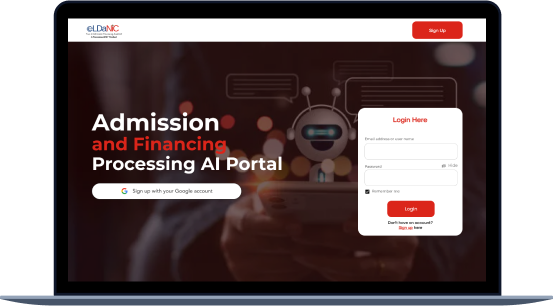
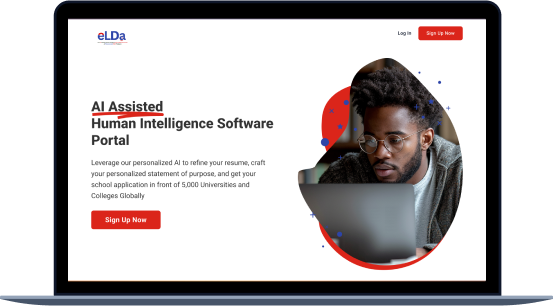
commit

diff --git a/src/pages/Home.jsx b/src/pages/Home.jsx
@@ -1,13 +1,13 @@
-import React from "react";
 import TextImage from "../components/TextImage";
 import Macbook from "../assets/Macbook.png";
-import aiLaptop from "../assets/ai-laptop.png";
+import aiLaptop from "../assets/laptop.png";
 import people from "../assets/people.png";
 import Frame1 from "../assets/Frame 473.png";
 import Frame2 from "../assets/Frame 475.png";
 import Button from "../components/small-components/Button";
 import Hero from "../components/Hero";
 import Partners from "../components/Partners";
+import globe from "../assets/globe.png";
 
 const Home = () => {
   return (
@@ -15,21 +15,23 @@ const Home = () => {
       <Hero />
       <Partners />
       <TextImage
-        picture={aiLaptop}
+        picture={Macbook}
         header={"PRODUCT"}
-        title={"AI Assisted Human Intelligence Software Portal"}
+        title={"AI Assisted Human Intelligence School Application Portal"}
         text={
-          "With our AI Admission and Financing Assistant, we match African Students to highly rated private universities to study commercially relevant courses across the African Continent"
+          "Leverage our personalized AI to refine your resume, craft your personalized statement of purpose, and get your school application in front of 5,000 Universities and Colleges Globally"
         }
+        showButton={true}
       />
       <TextImage
-        picture={Macbook}
+        picture={aiLaptop}
         header={"PRODUCT"}
         title={"Admission and Financing Processing AI"}
         text={
           "With our AI Admission and Financing Assistant, we match African Students to highly rated private universities to study commercially relevant courses across the African Continent"
         }
         classdyn={"flex-row-reverse"}
+        showButton={true}
       />
       <TextImage
         picture={people}
@@ -38,6 +40,7 @@ const Home = () => {
         text={
           "Through our Global Education Community, we are raising the next generation of economic super-stars that will drive the economic prosperity across the developed and developing economies."
         }
+        showButton={true}
       />
       <TextImage
         picture={Frame1}
@@ -45,23 +48,34 @@ const Home = () => {
       />
       <TextImage
         picture={Frame2}
-        title={"Global Education Loan Calculator"}
+        title={
+          <span className="flex items-start justify-start">
+            Gl
+            <span className="flex items-start justify-end">
+              <img
+                src={globe}
+                alt="globe"
+                className="object-contain"
+              />
+            </span>
+            bal Education Loan Calculator
+          </span>
+        }
         classdyn={"flex-row-reverse"}
       />
       <div className="men">
         <div className="background-image"></div>
         <div className="content flex flex-col gap-8 items-start p-20 w-[45%]">
-          <h2 className="text-4xl font-bold">
+          <h2 className="text-4xl font-bold leading-normal">
             We are BIG on Mentoring and Academic Excellence
           </h2>
-          <p className="text-xl">
+          <p className="text-xl leading-normal">
             We foster personal and professional learning and development to
             enable our community access to great opportunities post-graduation.
           </p>
           <Button btnText={"Join Community"} />
         </div>
       </div>
-      {/* <Footer /> */}
     </div>
   );
 };

diff --git a/src/components/Hero.jsx b/src/components/Hero.jsx
@@ -1,11 +1,66 @@
 import React from "react";
-import Navbar from "./Navbar";
+import Line from "../assets/line.png";
+import Girl from "../assets/girl.png";
+import bulb from "../assets/bulb.png";
+import family from "../assets/family.png";
+import goals from "../assets/goals.png";
 
 const Hero = () => {
   return (
-    <div>
-      {/* <Navbar /> */}
-      Hero
+    <div className="p-20 mb-24 flex gap-24 justify-between items-center">
+      <div className="w-2/5 flex flex-col gap-10">
+        <h2 className="font-semibold text-4xl">
+          <span className="text-[#db251A]">Welcome to </span>
+          <span className="relative">
+            <span className="text-[#1E4580]">Proconnect</span>
+            <span className="text-[#db251A]">Pay</span>
+            <img src={Line} alt="" className="absolute right-0" />
+          </span>
+        </h2>
+        <h1 className="font-bold text-[56px] leading-tight">
+          Africa's First EduFintechCo.
+        </h1>
+        <p className="text-[#646464] font-normal leading-normal text-xl">
+          We provide seamless long-term Education Financing to DEMOCRATIZE
+          access to Global and Local Educational Opportunities for
+          high-potential African Students/Candidates
+        </p>
+        <div className="flex gap-4">
+          <button className="w-1/2 rounded-lg h-14 hover:bg-transparent hover:text-[#db251A] border-2 hover:border-red-500 font-medium flex items-center justify-center bg-[#DB251A] text-white py-2 px-4 cursor-pointer">
+            Get Started
+          </button>
+          <button className="w-1/2 flex border-2 h-14 justify-center font-medium text-[#db251A] border-red-500 items-center rounded-lg px-4 py-2 cursor-pointer hover:bg-[#db251A] hover:text-white">
+            Contact Sales
+          </button>
+        </div>
+      </div>
+
+      <div className="flex flex-col gap-16">
+        <div className="flex gap-18">
+          <img
+            src={Girl}
+            alt=""
+            className="flex relative top-20 left-10 object-contain"
+          />
+          <img
+            src={bulb}
+            alt=""
+            className="flex object-contain relative top-0 right-[-100px]"
+          />
+        </div>
+        <div className="flex gap-18">
+          <img
+            src={family}
+            alt=""
+            className="flex object-contain relative top-20 left-[-80px]"
+          />
+          <img
+            src={goals}
+            alt=""
+            className="flex object-contain relative top-0 right-6"
+          />
+        </div>
+      </div>
     </div>
   );
 };

diff --git a/src/components/Partners.jsx b/src/components/Partners.jsx
@@ -1,9 +1,48 @@
 import React from "react";
+import Benson from "../assets/benson.png";
+import AmericanUni from "../assets/american universityunis.png";
+import clarkLogo from "../assets/clark-logo.png";
+import covenantLogo from "../assets/covenant-logo.png";
+import icanLogo from "../assets/ican logo.png";
+import igbinedion from "../assets/igbinedion university.png";
+import logoUdelunis from "../assets/logo-udelunis-1.png";
+import udelLogo from "../assets/udel-logo.png";
+import windSor from "../assets/windsor_logo.png";
+
+const partnerUnis = [
+  Benson,
+  AmericanUni,
+  clarkLogo,
+  covenantLogo,
+  icanLogo,
+  igbinedion,
+  udelLogo,
+  logoUdelunis,
+  windSor,
+];
 
 const Partners = () => {
+  const doublePartnerUnis = [...partnerUnis, ...partnerUnis];
+
   return (
-    <div>
-      <p>Our Global and Local Partners</p>
+    <div className="px-20 py-10">
+      <p className="font-bold text-4xl text-center mb-16">Our Global and Local Partners</p>
+      <div className="flex flex-col gap-16">
+        <div className="carousel-container">
+          <div className="carousel gap-16">
+            {doublePartnerUnis.map((uni, index) => (
+              <img src={uni} alt="" key={index} />
+            ))}
+          </div>
+        </div>
+        <div className="carousel-container gap-5">
+          <div className="carousel gap-16 carousel-left">
+            {doublePartnerUnis.map((uni, index) => (
+              <img src={uni} alt="" key={index} />
+            ))}
+          </div>
+        </div>
+      </div>
     </div>
   );
 };

diff --git a/src/components/TextImage.jsx b/src/components/TextImage.jsx
@@ -1,14 +1,14 @@
 import React from "react";
 import Button from "./small-components/Button";
 
-const TextImage = ({ picture, title, header, text, classdyn }) => {
+const TextImage = ({ picture, title, header, text, classdyn, showButton }) => {
   return (
     <div className={`flex p-20 gap-20 items-center ${classdyn}`}>
       <div className="w-full sm:w-1/2 flex flex-col items-start gap-8">
         <p className="font-bold text-xl">{header}</p>
-        <h2 className="text-4xl font-bold">{title}</h2>
+        <h2 className="text-4xl font-bold leading-normal">{title}</h2>
         <p className="text-xl">{text}</p>
-        <Button btnText={"Get Started"} />
+        {showButton && <Button btnText={"Get Started"} />}
       </div>
       <div className="w-full sm:w-1/2">
         <img src={picture} alt={picture} />

diff --git a/src/App.css b/src/App.css
@@ -34,3 +34,37 @@
 .active-nav {
   color: #db251a;
 }
+
+/* YourCarouselStyles.css */
+.carousel-container {
+  display: flex;
+  overflow: hidden;
+  width: 100%;
+}
+
+.carousel {
+  display: flex;
+  animation: scrollRight 20s linear infinite;
+}
+
+.carousel-left {
+  animation: scrollLeft 20s linear infinite;
+}
+
+@keyframes scrollRight {
+  0% {
+    transform: translateX(0);
+  }
+  100% {
+    transform: translateX(-100%);
+  }
+}
+
+@keyframes scrollLeft {
+  0% {
+    transform: translateX(-100%);
+  }
+  100% {
+    transform: translateX(0%);
+  }
+}

diff --git a/src/index.css b/src/index.css
@@ -1,3 +1,9 @@
 @tailwind base;
 @tailwind components;
 @tailwind utilities;
+
+* {
+  margin: 0;
+  padding: 0;
+  box-sizing: border-box;
+}
